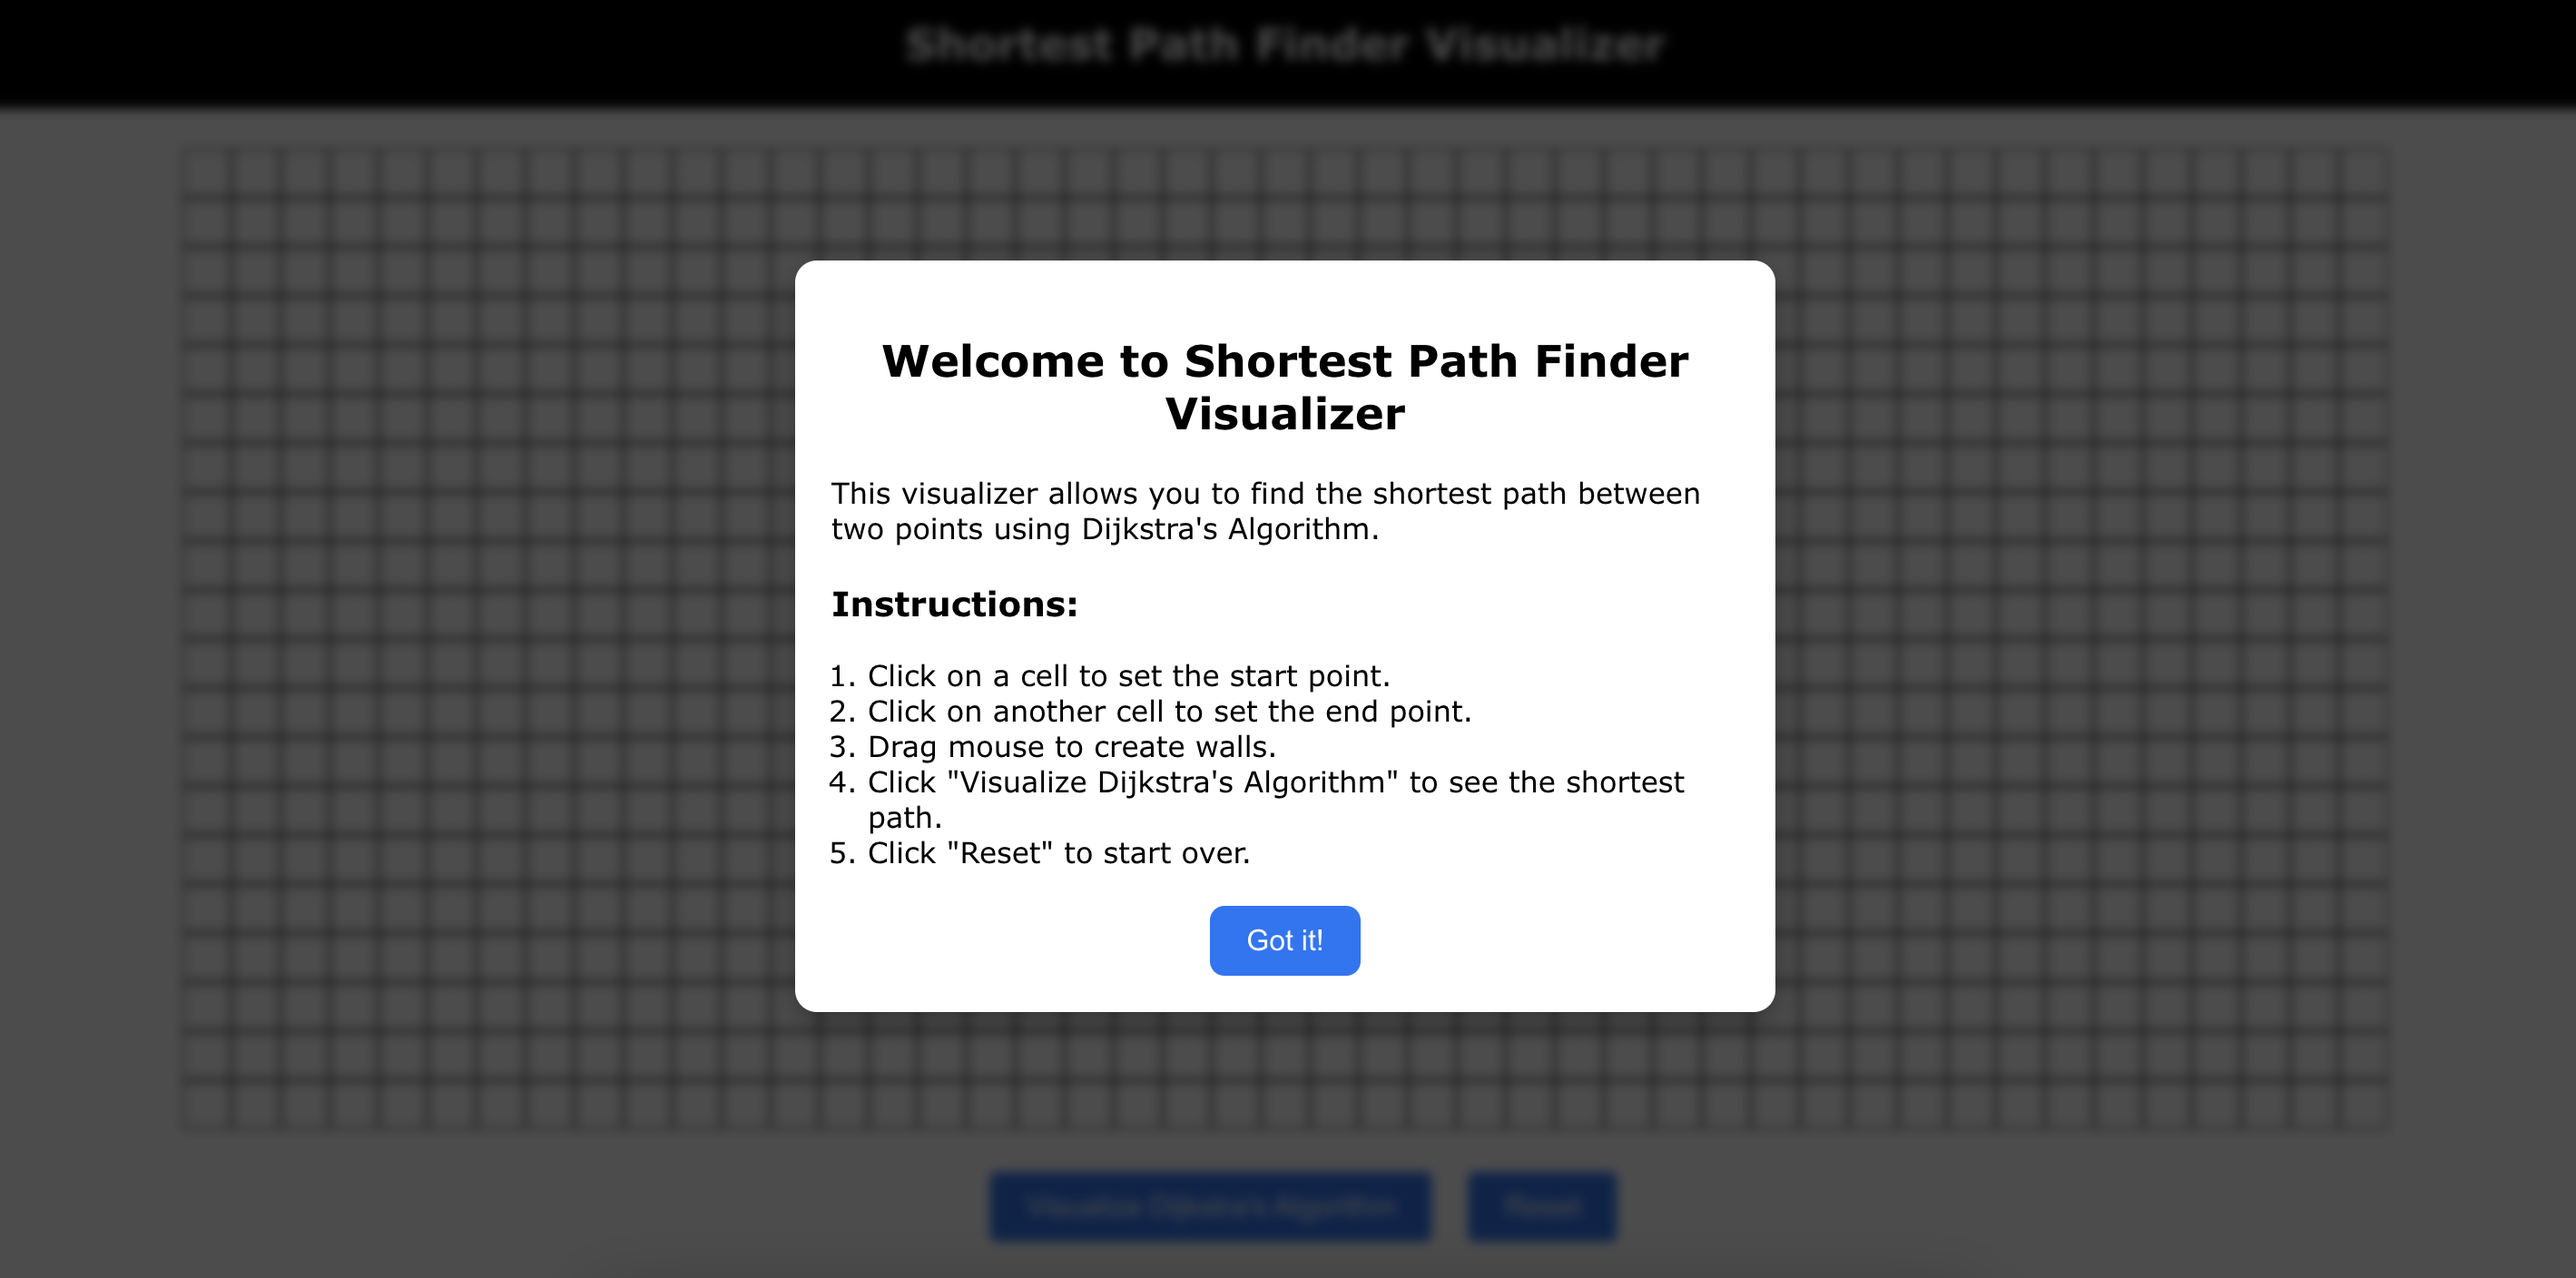
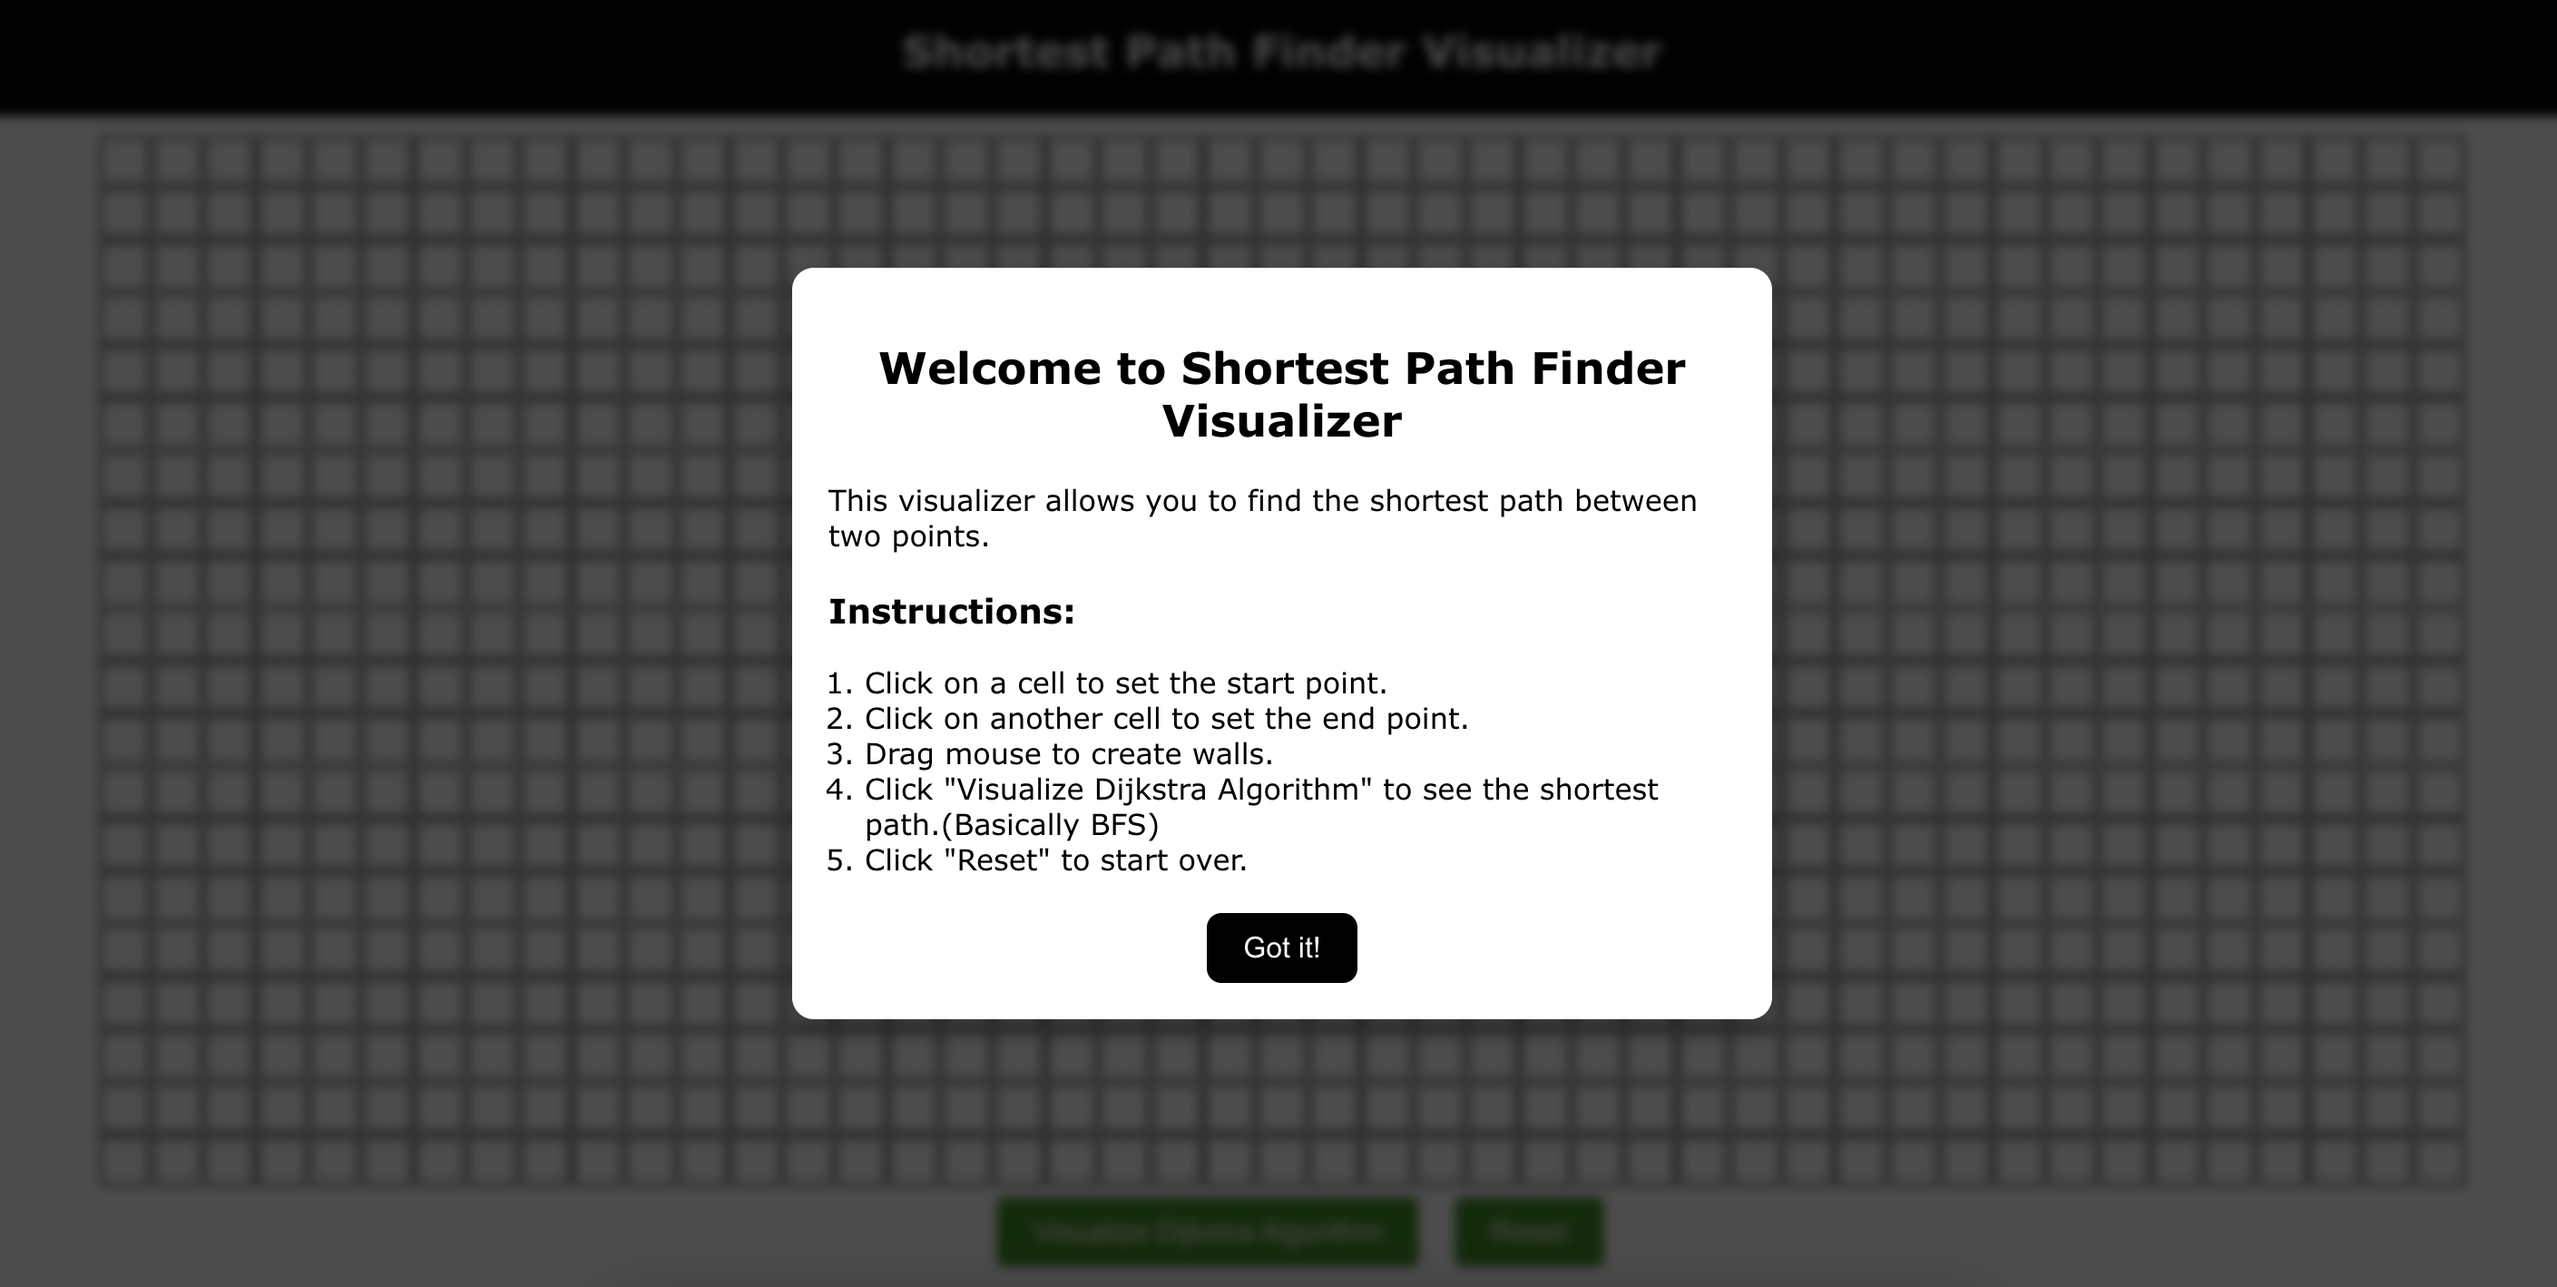
removed bfs and few chnages

diff --git a/src/algorithms/dijkstra.js b/src/algorithms/dijkstra.js
@@ -1,62 +1,62 @@
 export function dijkstra(grid, startNode, endNode) {
-    const visitedNodesInOrder = [];
-    startNode.distance = 0;
-    const unvisitedNodes = getAllNodes(grid);
-  
-    while (!!unvisitedNodes.length) {
-      sortNodesByDistance(unvisitedNodes);
-      const closestNode = unvisitedNodes.shift();
-  
-      if (closestNode.isWall) continue;
-      if (closestNode.distance === Infinity) return visitedNodesInOrder;
-  
-      closestNode.isVisited = true;
-      visitedNodesInOrder.push(closestNode);
-  
-      if (closestNode === endNode) return visitedNodesInOrder;
-  
-      updateUnvisitedNeighbors(closestNode, grid);
+  const visitedNodesInOrder = [];
+  startNode.distance = 0;
+  const unvisitedNodes = getAllNodes(grid);
+
+  while (!!unvisitedNodes.length) {
+    sortNodesByDistance(unvisitedNodes);
+    const closestNode = unvisitedNodes.shift();
+
+    if (closestNode.isWall) continue;
+    if (closestNode.distance === Infinity) return visitedNodesInOrder;
+
+    closestNode.isVisited = true;
+    visitedNodesInOrder.push(closestNode);
+
+    if (closestNode === endNode) return visitedNodesInOrder;
+
+    updateUnvisitedNeighbors(closestNode, grid);
+  }
+}
+
+function sortNodesByDistance(unvisitedNodes) {
+  unvisitedNodes.sort((nodeA, nodeB) => nodeA.distance - nodeB.distance);
+}
+
+function updateUnvisitedNeighbors(node, grid) {
+  const unvisitedNeighbors = getUnvisitedNeighbors(node, grid);
+  for (const neighbor of unvisitedNeighbors) {
+    neighbor.distance = node.distance + 1;
+    neighbor.previousNode = node;
+  }
+}
+
+function getUnvisitedNeighbors(node, grid) {
+  const neighbors = [];
+  const { col, row } = node;
+  if (row > 0) neighbors.push(grid[row - 1][col]);
+  if (row < grid.length - 1) neighbors.push(grid[row + 1][col]);
+  if (col > 0) neighbors.push(grid[row][col - 1]);
+  if (col < grid[0].length - 1) neighbors.push(grid[row][col + 1]);
+  return neighbors.filter(neighbor => !neighbor.isVisited);
+}
+
+function getAllNodes(grid) {
+  const nodes = [];
+  for (const row of grid) {
+    for (const node of row) {
+      nodes.push(node);
     }
   }
-  
-  function sortNodesByDistance(unvisitedNodes) {
-    unvisitedNodes.sort((nodeA, nodeB) => nodeA.distance - nodeB.distance);
+  return nodes;
+}
+
+export function getNodesInShortestPathOrder(endNode) {
+  const nodesInShortestPathOrder = [];
+  let currentNode = endNode;
+  while (currentNode !== null) {
+    nodesInShortestPathOrder.unshift(currentNode);
+    currentNode = currentNode.previousNode;
   }
-  
-  function updateUnvisitedNeighbors(node, grid) {
-    const unvisitedNeighbors = getUnvisitedNeighbors(node, grid);
-    for (const neighbor of unvisitedNeighbors) {
-      neighbor.distance = node.distance + 1;
-      neighbor.previousNode = node;
-    }
-  }
-  
-  function getUnvisitedNeighbors(node, grid) {
-    const neighbors = [];
-    const { col, row } = node;
-    if (row > 0) neighbors.push(grid[row - 1][col]);
-    if (row < grid.length - 1) neighbors.push(grid[row + 1][col]);
-    if (col > 0) neighbors.push(grid[row][col - 1]);
-    if (col < grid[0].length - 1) neighbors.push(grid[row][col + 1]);
-    return neighbors.filter(neighbor => !neighbor.isVisited);
-  }
-  
-  function getAllNodes(grid) {
-    const nodes = [];
-    for (const row of grid) {
-      for (const node of row) {
-        nodes.push(node);
-      }
-    }
-    return nodes;
-  }
-  
-  export function getNodesInShortestPathOrder(endNode) {
-    const nodesInShortestPathOrder = [];
-    let currentNode = endNode;
-    while (currentNode !== null) {
-      nodesInShortestPathOrder.unshift(currentNode);
-      currentNode = currentNode.previousNode;
-    }
-    return nodesInShortestPathOrder;
-  }
+  return nodesInShortestPathOrder;
+}

diff --git a/src/App.js b/src/App.js
@@ -2,7 +2,6 @@ import React, { useState, useEffect } from 'react';
 import Grid from './components/Grid';
 import Modal from './components/Modal';
 import PathModal from './components/PathModal';
-import { bfs, getNodesInShortestPathOrder as getBFSPath } from './algorithms/bfs';
 import { dijkstra, getNodesInShortestPathOrder as getDijkstraPath } from './algorithms/dijkstra';
 import './App.css';
 
@@ -75,14 +74,6 @@ const App = () => {
     setIsMousePressed(false);
   };
 
-  const visualizeBFS = () => {
-    if (!startNode || !endNode) return;
-    const newGrid = [...grid];
-    const visitedNodesInOrder = bfs(newGrid, startNode, endNode);
-    const nodesInShortestPathOrder = getBFSPath(endNode);
-    animateAlgorithm(visitedNodesInOrder, nodesInShortestPathOrder, 'bfs');
-  };
-
   const visualizeDijkstra = () => {
     if (!startNode || !endNode) return;
     const newGrid = [...grid];
@@ -114,7 +105,7 @@ const App = () => {
         const node = pathNodesCopy[i];
         node.isPath = true;
         node.stepNumber = i + 1;
-        node.algorithm = algorithm; // Track which algorithm was used
+        node.algorithm = algorithm;
         setGrid([...grid]);
         if (i === pathNodesCopy.length - 1) {
           setTimeout(() => {
@@ -156,7 +147,6 @@ const App = () => {
         />
       </div>
       <div className="buttons">
-        <button onClick={visualizeBFS}>Visualize BFS Algorithm</button>
         <button onClick={visualizeDijkstra}>Visualize Dijkstra Algorithm</button>
         <button onClick={resetGrid}>Reset</button>
       </div>

diff --git a/src/components/Modal.js b/src/components/Modal.js
@@ -14,7 +14,7 @@ const Modal = ({ onClose }) => {
           <li>Click on a cell to set the start point.</li>
           <li>Click on another cell to set the end point.</li>
           <li>Drag mouse to create walls.</li>
-          <li>Click "Visualize BFS/Dijkstra Algorithm" to see the shortest path.</li>
+          <li>Click "Visualize Dijkstra Algorithm" to see the shortest path.(Basically BFS)</li>
           <li>Click "Reset" to start over.</li>
         </ol>
         <button onClick={onClose}>Got it!</button>

diff --git a/src/components/Node.css b/src/components/Node.css
@@ -22,10 +22,6 @@
   background-color: lightblue;
 }
 
-.node-path-bfs {
-  background-color: orange;
-}
-
 .node-path-dijkstra {
   background-color: yellow;
 }

diff --git a/README.md b/README.md
@@ -1,7 +1,7 @@
 # Shortest Pathfinder
 
 ## Overview
-It uses dijkstra Algorithm to find the Shortest Path
+It uses dijkstra Algorithm to find the Shortest Path (Bascially BFS without weights)
 
 ## Screenshots
 
